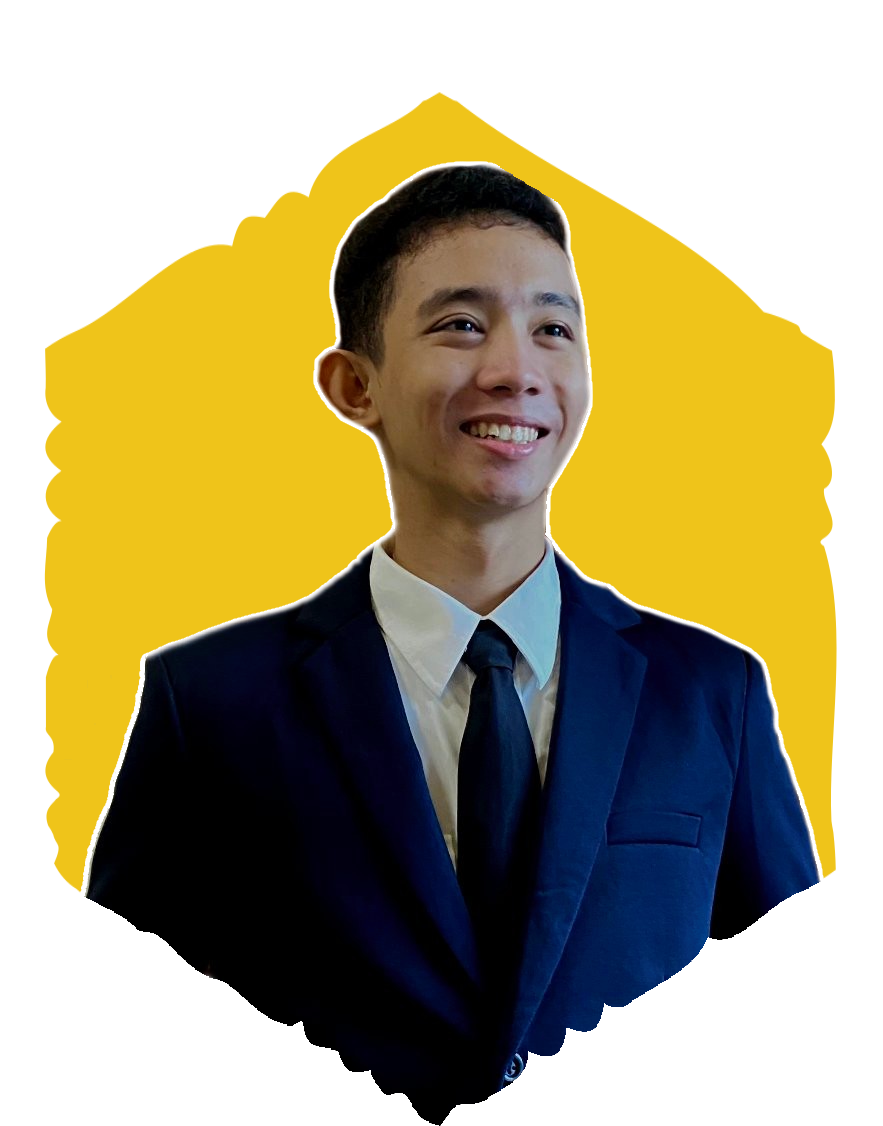
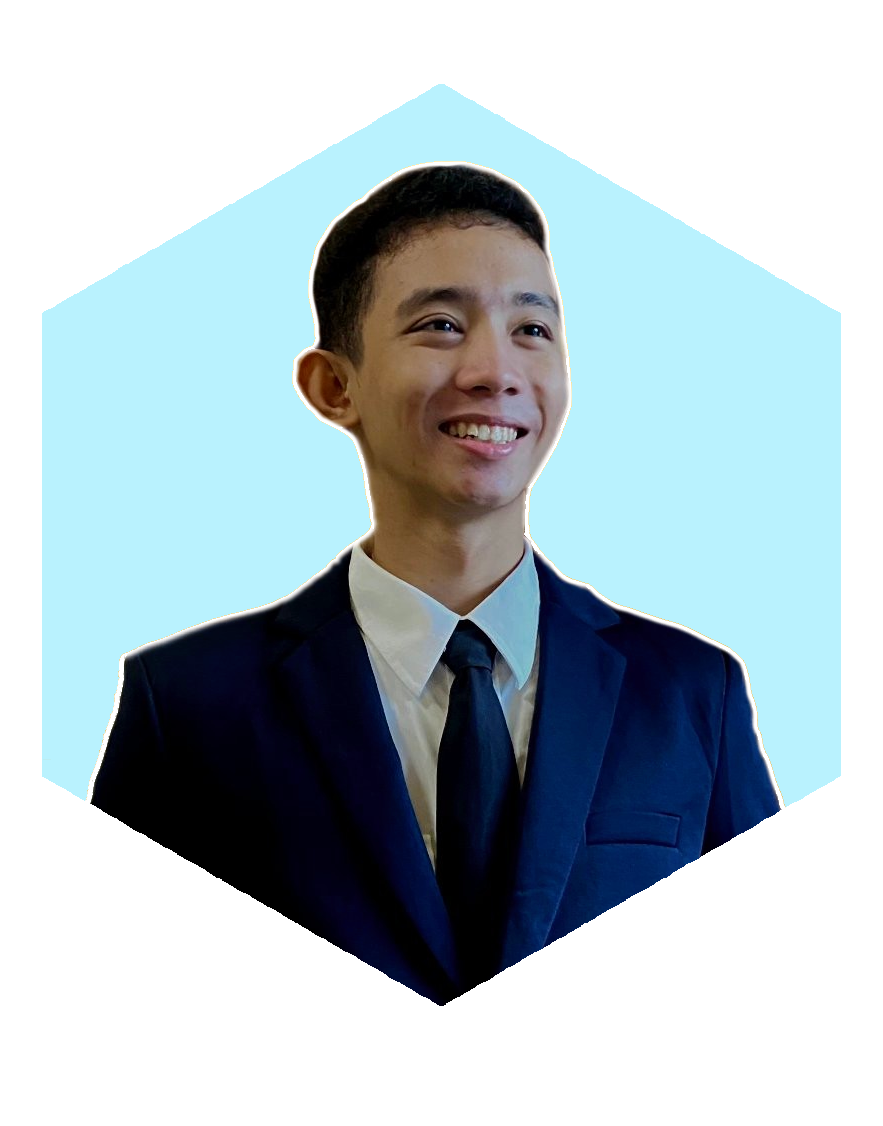
mort and rick the codes out of them

diff --git a/index.css b/index.css
@@ -31,218 +31,11 @@
 
 /*--background-color Css--------------------------------------------------------------------------------------------------------------------- */
 #bg6 {
-  background-color: #fcda68;
+  background-color: #68a7ad;
 }
 #bg7 {
   background-color: #ffffff;
 }
 #bg9 {
-  background-color: #fcda68;
-}
-
-/*--Buttons Css--------------------------------------------------------------------------------------------------------------------- */
-.button-49,
-.button-49:after {
-  width: 150px;
-  height: 76px;
-  line-height: 78px;
-  font-size: 20px;
-  font-family: 'Bebas Neue', sans-serif;
-  background: linear-gradient(45deg, transparent 5%, #fcda68 5%);
-  border: 0;
-  color: #fff;
-  letter-spacing: 3px;
-  box-shadow: 6px 0px 0px #00e6f6;
-  outline: transparent;
-  position: relative;
-  user-select: none;
-  -webkit-user-select: none;
-  touch-action: manipulation;
-}
-
-.button-49:after {
-  --slice-0: inset(50% 50% 50% 50%);
-  --slice-1: inset(80% -6px 0 0);
-  --slice-2: inset(50% -6px 30% 0);
-  --slice-3: inset(10% -6px 85% 0);
-  --slice-4: inset(40% -6px 43% 0);
-  --slice-5: inset(80% -6px 5% 0);
-
-  content: 'ALTERNATE TEXT';
-  display: block;
-  position: absolute;
-  top: 0;
-  left: 0;
-  right: 0;
-  bottom: 0;
-  background: linear-gradient(
-    45deg,
-    transparent 3%,
-    #00e6f6 3%,
-    #00e6f6 5%,
-    #ff013c 5%
-  );
-  text-shadow: -3px -3px 0px #f8f005, 3px 3px 0px #00e6f6;
-  clip-path: var(--slice-0);
-}
-
-.button-49:hover:after {
-  animation: 1s glitch;
-  animation-timing-function: steps(2, end);
-}
-
-@keyframes glitch {
-  0% {
-    clip-path: var(--slice-1);
-    transform: translate(-20px, -10px);
-  }
-  10% {
-    clip-path: var(--slice-3);
-    transform: translate(10px, 10px);
-  }
-  20% {
-    clip-path: var(--slice-1);
-    transform: translate(-10px, 10px);
-  }
-  30% {
-    clip-path: var(--slice-3);
-    transform: translate(0px, 5px);
-  }
-  40% {
-    clip-path: var(--slice-2);
-    transform: translate(-5px, 0px);
-  }
-  50% {
-    clip-path: var(--slice-3);
-    transform: translate(5px, 0px);
-  }
-  60% {
-    clip-path: var(--slice-4);
-    transform: translate(5px, 10px);
-  }
-  70% {
-    clip-path: var(--slice-2);
-    transform: translate(-10px, 10px);
-  }
-  80% {
-    clip-path: var(--slice-5);
-    transform: translate(20px, -10px);
-  }
-  90% {
-    clip-path: var(--slice-1);
-    transform: translate(-10px, 0px);
-  }
-  100% {
-    clip-path: var(--slice-1);
-    transform: translate(0);
-  }
-}
-
-@media (min-width: 768px) {
-  .button-49,
-  .button-49:after {
-    width: 200px;
-    height: 86px;
-    line-height: 88px;
-  }
-}
-
-.button-50,
-.button-50:after {
-  width: 150px;
-  height: 76px;
-  line-height: 78px;
-  font-size: 20px;
-  font-family: 'Bebas Neue', sans-serif;
-  background: linear-gradient(45deg, transparent 5%, #00e6f6 5%);
-  border: 0;
-  color: #fff;
-  letter-spacing: 3px;
-  box-shadow: 6px 0px 0px #f8f005;
-  outline: transparent;
-  position: relative;
-  user-select: none;
-  -webkit-user-select: none;
-  touch-action: manipulation;
-}
-
-.button-50:after {
-  --slice-0: inset(50% 50% 50% 50%);
-  --slice-1: inset(80% -6px 0 0);
-  --slice-2: inset(50% -6px 30% 0);
-  --slice-3: inset(10% -6px 85% 0);
-  --slice-4: inset(40% -6px 43% 0);
-  --slice-5: inset(80% -6px 5% 0);
-
-  content: 'ALTERNATE TEXT';
-  display: block;
-  position: absolute;
-  top: 0;
-  left: 0;
-  right: 0;
-  bottom: 0;
-  background: linear-gradient(
-    45deg,
-    transparent 3%,
-    #00e6f6 3%,
-    #00e6f6 5%,
-    #ff013c 5%
-  );
-  text-shadow: -3px -3px 0px #f8f005, 3px 3px 0px #00e6f6;
-  clip-path: var(--slice-0);
-}
-
-.button-53 {
-  background-color: #3dd1e7;
-  border: 0 solid #e5e7eb;
-  box-sizing: border-box;
-  color: #000000;
-  display: flex;
-  font-family: ui-sans-serif, system-ui, -apple-system, system-ui, 'Segoe UI',
-    Roboto, 'Helvetica Neue', Arial, 'Noto Sans', sans-serif,
-    'Apple Color Emoji', 'Segoe UI Emoji', 'Segoe UI Symbol', 'Noto Color Emoji';
-  font-size: 1rem;
-  font-weight: 700;
-  justify-content: center;
-  line-height: 1.75rem;
-  padding: 0.75rem 1.65rem;
-  position: relative;
-  text-align: center;
-  text-decoration: none #000000 solid;
-  text-decoration-thickness: auto;
-  width: 100%;
-  max-width: 200px;
-  max-height: 60px;
-  position: relative;
-  cursor: pointer;
-  transform: rotate(-2deg);
-  user-select: none;
-  -webkit-user-select: none;
-  touch-action: manipulation;
-}
-
-.button-53:focus {
-  outline: 0;
-}
-
-.button-53:after {
-  content: '';
-  position: absolute;
-  border: 1px solid #000000;
-  bottom: 4px;
-  left: 4px;
-  width: calc(100% - 1px);
-  height: calc(100% - 1px);
-}
-
-.button-53:hover:after {
-  bottom: 2px;
-  left: 2px;
-}
-
-@media (min-width: 768px) {
-  .button-53 {
-    padding: 0.75rem 3rem;
-    font-size: 1.25rem;
-  }
+  background-color: #68a7ad;
 }

diff --git a/index.html b/index.html
@@ -20,7 +20,7 @@
     <nav class="navbar navbar-expand-lg navbar-light mt-4">
       <div class="container-fluid">
         <div class="d-flex flex-row">
-          <a class="mx-2" href=""><span style=" color: #3dd1e7 ;"><i
+          <a class="mx-2" href=""><span style=" color: #68A7AD ;"><i
                 class="fa-duotone fa-solid fa-shield-halved fa-2xl"></i> </span></a>
           <h3>PORTFOLIO</h3>
         </div>
@@ -29,9 +29,9 @@
           <span class="navbar-toggler-icon"></span>
         </button>
         <div class="collapse navbar-collapse justify-content-center" id="navbarNavDropdown">
-          <ul class="navbar-nav">
+          <ul class="navbar-nav  gap-lg-4">
             <li class="nav-item">
-              <a class="nav-link active " aria-current="page" href="#">
+              <a class="nav-link active " aria-current="page" href="">
                 <h5>Home</h5>
               </a>
             </li>
@@ -47,7 +47,7 @@
               </a>
             </li>
             <li class="nav-item">
-              <a class="nav-link" href="#">
+              <a class="nav-link" href="#reachme">
                 <h5>Reach Me</h5>
               </a>
             </li>
@@ -70,11 +70,11 @@
             graduate. a software developer with ambitions to work in the field. Currently aspires to be one of the
             world's greatest full-stack developers and software developer.</p>
         </div>
-        <div class="d-flex flex-row flex-wrap justify-content-evenly">
-          <a href="#About"><button class="button-49 my-3">About me</button></a>
-          <a href="#Portfolio"><button class="button-53 mt-4" id="lspace2">PORTFOLIO</button></a>
+        <div class="d-flex flex-row gap-5 justify-content-center">
+          <a href="#About"><button class="btn btn-outline-info" id="lspace2">ABOUT ME</button></a>
+          <a href="#Portfolio"><button class="btn btn-outline-info" id="lspace2">PORTFOLIO</button></a>
         </div>
-        <div class="d-flex flex-row flex-wrap my-5 mx-5 gap-5">
+        <div class="d-flex flex-row flex-wrap my-5 mx-5 gap-lg-5 gap-2 ">
           <p class="fw-lighter text-secondary">Check out my</p>
           <a href="https://dribbble.com/shots/17035515-Personal-Portfolio-Web-Landing-Page-Design"><i
               class="fa-brands fa-facebook fa-xl"></i></a>
@@ -101,7 +101,7 @@
         <div class="d-flex flex-column mx-5">
           <div class="">
             <h1 class="display-1 text-light" id="txt-shadow">About Me</h1>
-            <p class="text-secondary">"First, solve the problem. Then, write the code." – John Johnson</p>
+            <p class="text-dark">"First, solve the problem. Then, write the code." – John Johnson</p>
           </div>
           <div class="d-flex justify-content align-self-center">
             <img class="img-fluid" src="./images/pic/p1.png" alt="">
@@ -264,7 +264,7 @@
   </div>
   <!--Reach me------------------------------------------------------------------------------>
   <div class="container-fluid">
-    <div class="row mt-5">
+    <div class="row mt-5" id="reachme">
       <div class="col-lg-6 align-self-end" id="txt-shadow">
         <div class="d-flex flex-row justify-content-center">
           <h1 class="display-1 text-light" id="bg9">Reach Me</h1>
